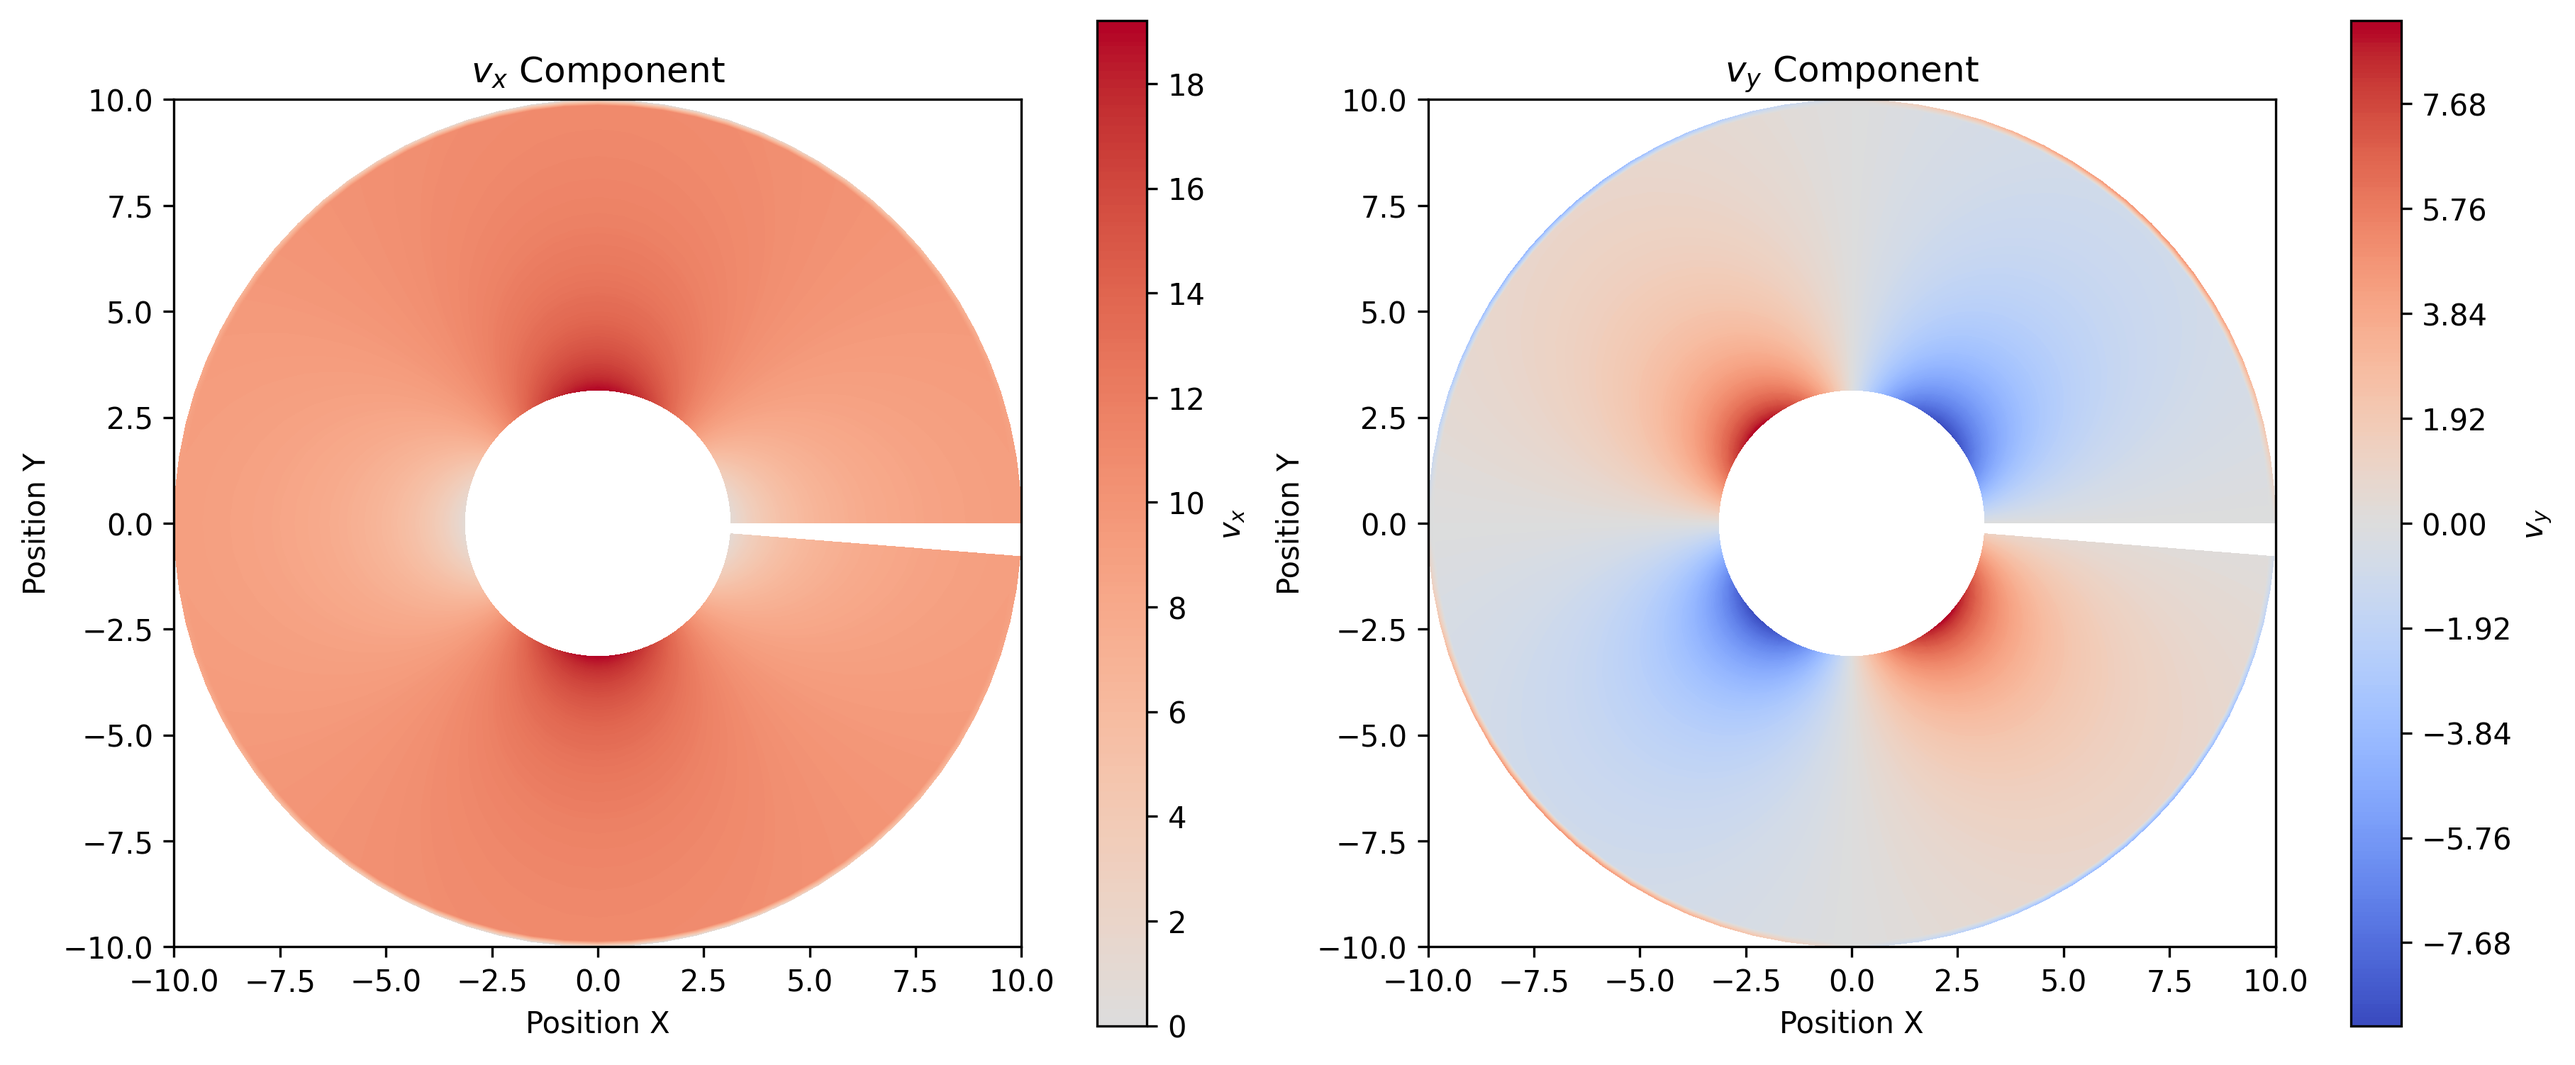
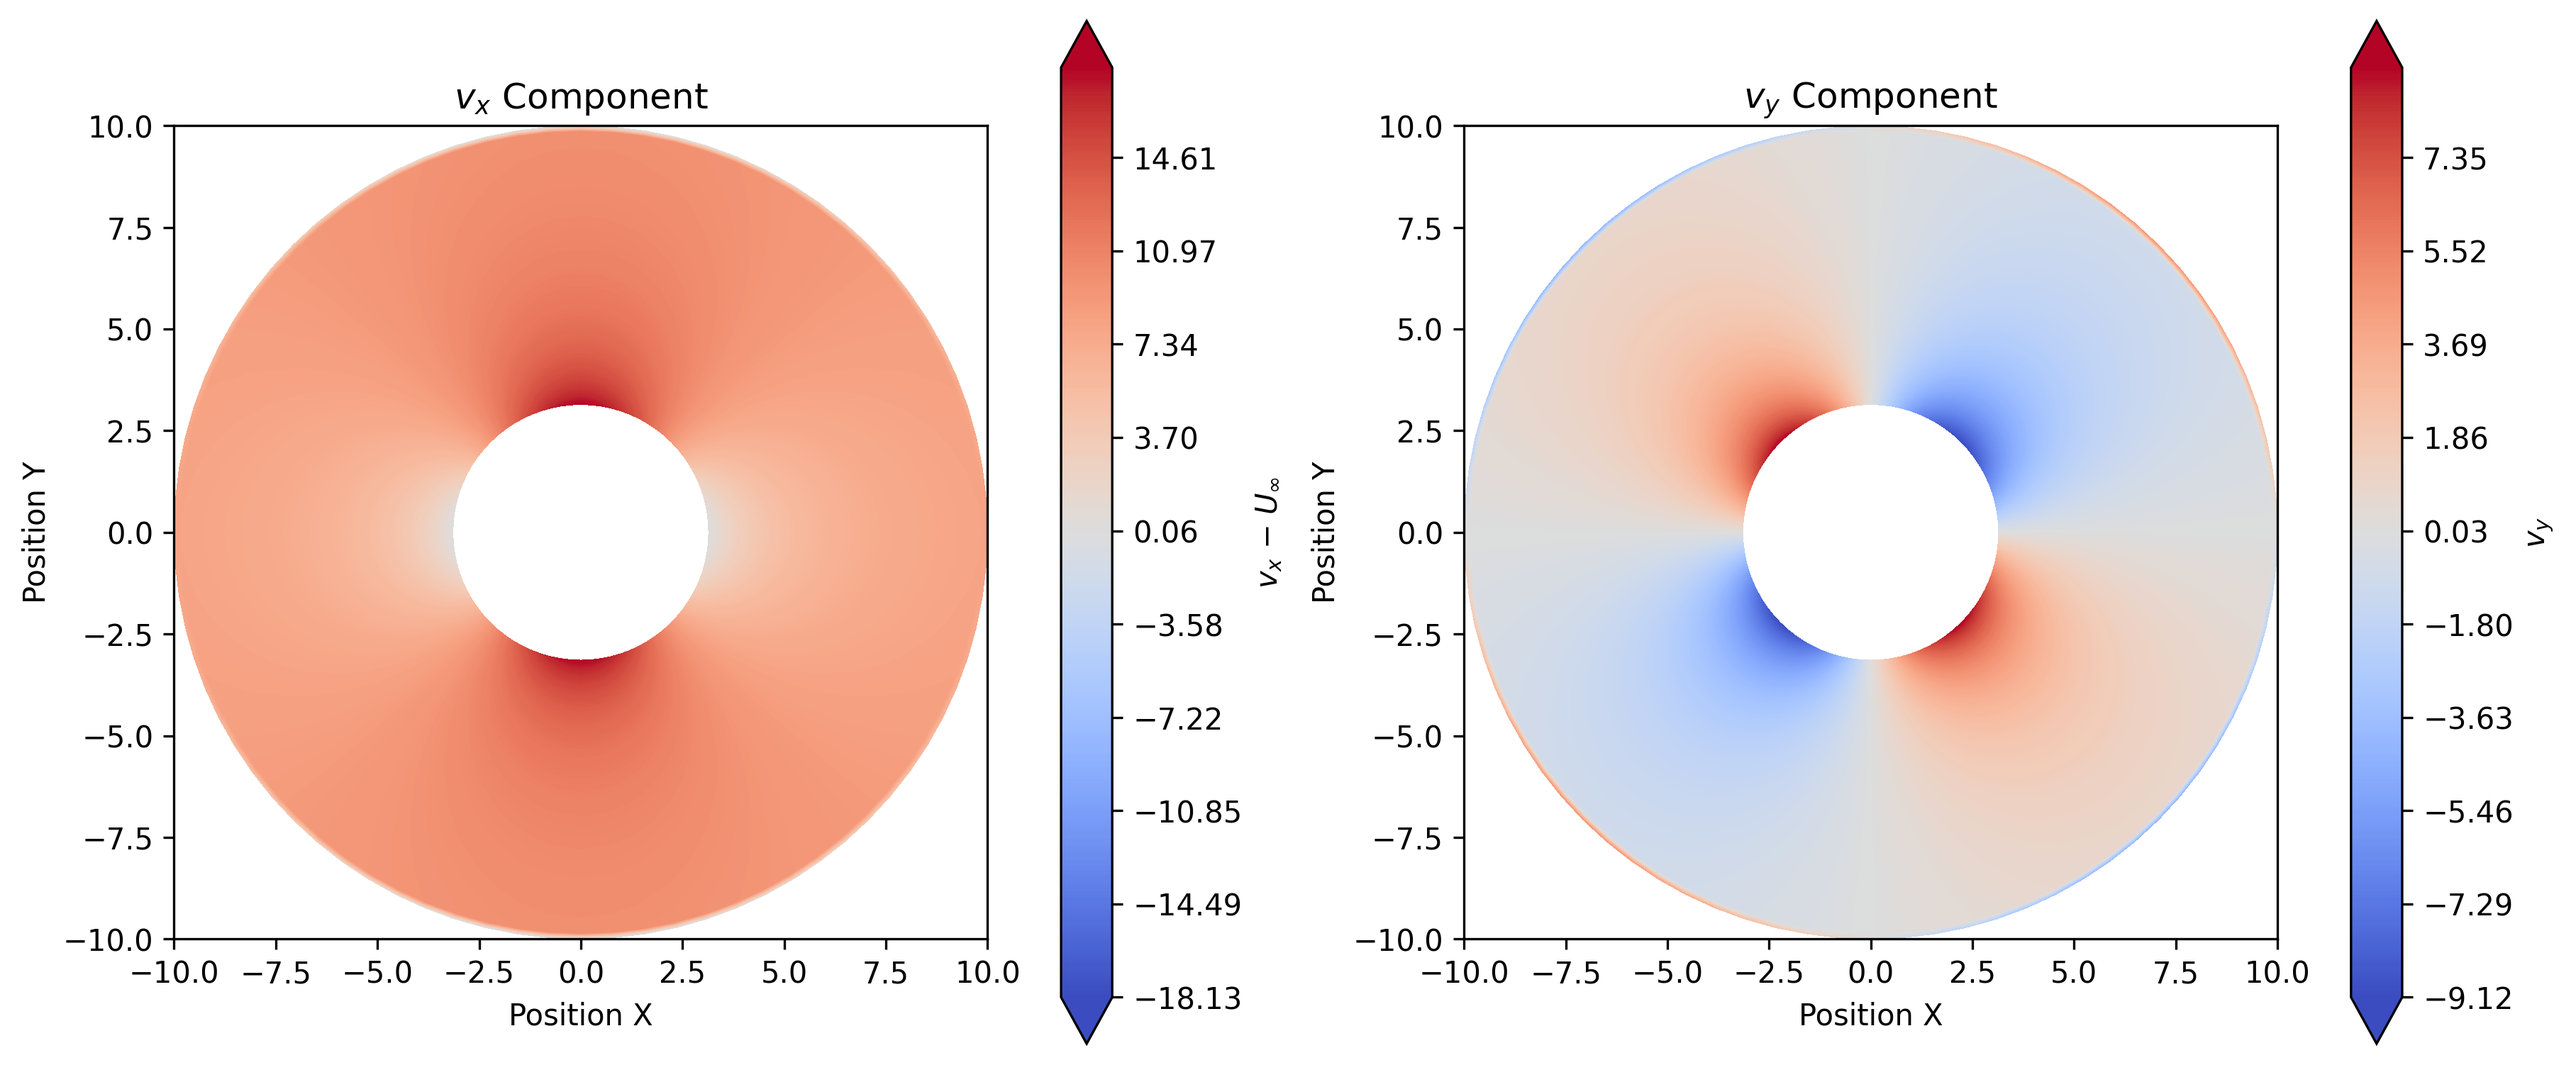
Updated cartes vx vy

diff --git a/cylinder_flow.py b/cylinder_flow.py
@@ -1,6 +1,7 @@
 import os
 import numpy as np
 from time import time
+import matplotlib.tri as mtri
 import matplotlib.pyplot as plt
 from scipy.sparse import lil_matrix
 from scipy.sparse.linalg import spsolve
@@ -239,17 +240,58 @@ def tracer_cartes_vx_vy(u, v, r, theta, R, niveaux=200, cmap='coolwarm',
     # Figure
     fig, axs = plt.subplots(1, 2, figsize=(12, 5), constrained_layout=True)
 
-    im0 = axs[0].contourf(X, Y, u_m, levels=niveaux, cmap=cmap,vmin=vlims_u[0], vmax=vlims_u[1])
-    axs[0].set_aspect('equal'); axs[0].set_title(r"$v_x$ Component")
-    axs[0].set_xlabel("Position X"); axs[0].set_ylabel("Position Y")
-    axs[0].set_xlim(-r.max(), r.max()); axs[0].set_ylim(-r.max(), r.max())
-    c0 = fig.colorbar(im0, ax=axs[0]); c0.set_label(r"$v_x$")
+    # im0 = axs[0].contourf(X, Y, u_m, levels=niveaux, cmap=cmap,vmin=vlims_u[0], vmax=vlims_u[1])
+    # axs[0].set_aspect('equal'); axs[0].set_title(r"$v_x$ Component")
+    # axs[0].set_xlabel("Position X"); axs[0].set_ylabel("Position Y")
+    # axs[0].set_xlim(-r.max(), r.max()); axs[0].set_ylim(-r.max(), r.max())
+    # c0 = fig.colorbar(im0, ax=axs[0]); c0.set_label(r"$v_x$")
 
-    im1 = axs[1].contourf(X, Y, v_m, levels=niveaux, cmap=cmap,vmin=vlims_v[0], vmax=vlims_v[1])
-    axs[1].set_aspect('equal'); axs[1].set_title(r"$v_y$ Component")
-    axs[1].set_xlabel("Position X"); axs[1].set_ylabel("Position Y")
-    axs[1].set_xlim(-r.max(), r.max()); axs[1].set_ylim(-r.max(), r.max())
-    c1 = fig.colorbar(im1, ax=axs[1]); c1.set_label(r"$v_y$")
+    # im1 = axs[1].contourf(X, Y, v_m, levels=niveaux, cmap=cmap,vmin=vlims_v[0], vmax=vlims_v[1])
+    # axs[1].set_aspect('equal'); axs[1].set_title(r"$v_y$ Component")
+    # axs[1].set_xlabel("Position X"); axs[1].set_ylabel("Position Y")
+    # axs[1].set_xlim(-r.max(), r.max()); axs[1].set_ylim(-r.max(), r.max())
+    # c1 = fig.colorbar(im1, ax=axs[1]); c1.set_label(r"$v_y$")
+
+    cmap_u = plt.get_cmap(cmap, niveaux).copy()
+    cmap_u.set_bad(color="white")
+    triang = mtri.Triangulation(X.ravel(), Y.ravel())
+    mask_nodes = masque.ravel()
+    triang.set_mask(np.any(mask_nodes[triang.triangles], axis=1))
+    im0 = axs[0].tricontourf(
+        triang,
+        u_m.filled(np.nan).ravel(),
+        levels=niveaux,
+        cmap=cmap_u,
+        vmin=vlims_u[0],
+        vmax=vlims_u[1],
+    )
+    axs[0].set_aspect("equal")
+    axs[0].set_title(r"$v_x$ Component")
+    axs[0].set_xlabel("Position X")
+    axs[0].set_ylabel("Position Y")
+    axs[0].set_xlim(-r.max(), r.max())
+    axs[0].set_ylim(-r.max(), r.max())
+    c0 = fig.colorbar(im0, ax=axs[0])
+    c0.set_label(r"$v_x$")
+
+    cmap_v = plt.get_cmap(cmap, niveaux).copy()
+    cmap_v.set_bad(color="white")
+    im1 = axs[1].tricontourf(
+        triang,
+        v_m.filled(np.nan).ravel(),
+        levels=niveaux,
+        cmap=cmap_v,
+        vmin=vlims_v[0],
+        vmax=vlims_v[1],
+    )
+    axs[1].set_aspect("equal")
+    axs[1].set_title(r"$v_y$ Component")
+    axs[1].set_xlabel("Position X")
+    axs[1].set_ylabel("Position Y")
+    axs[1].set_xlim(-r.max(), r.max())
+    axs[1].set_ylim(-r.max(), r.max())
+    c1 = fig.colorbar(im1, ax=axs[1])
+    c1.set_label(r"$v_y$")
 
     os.makedirs("Figures", exist_ok=True)
     if fichier:
